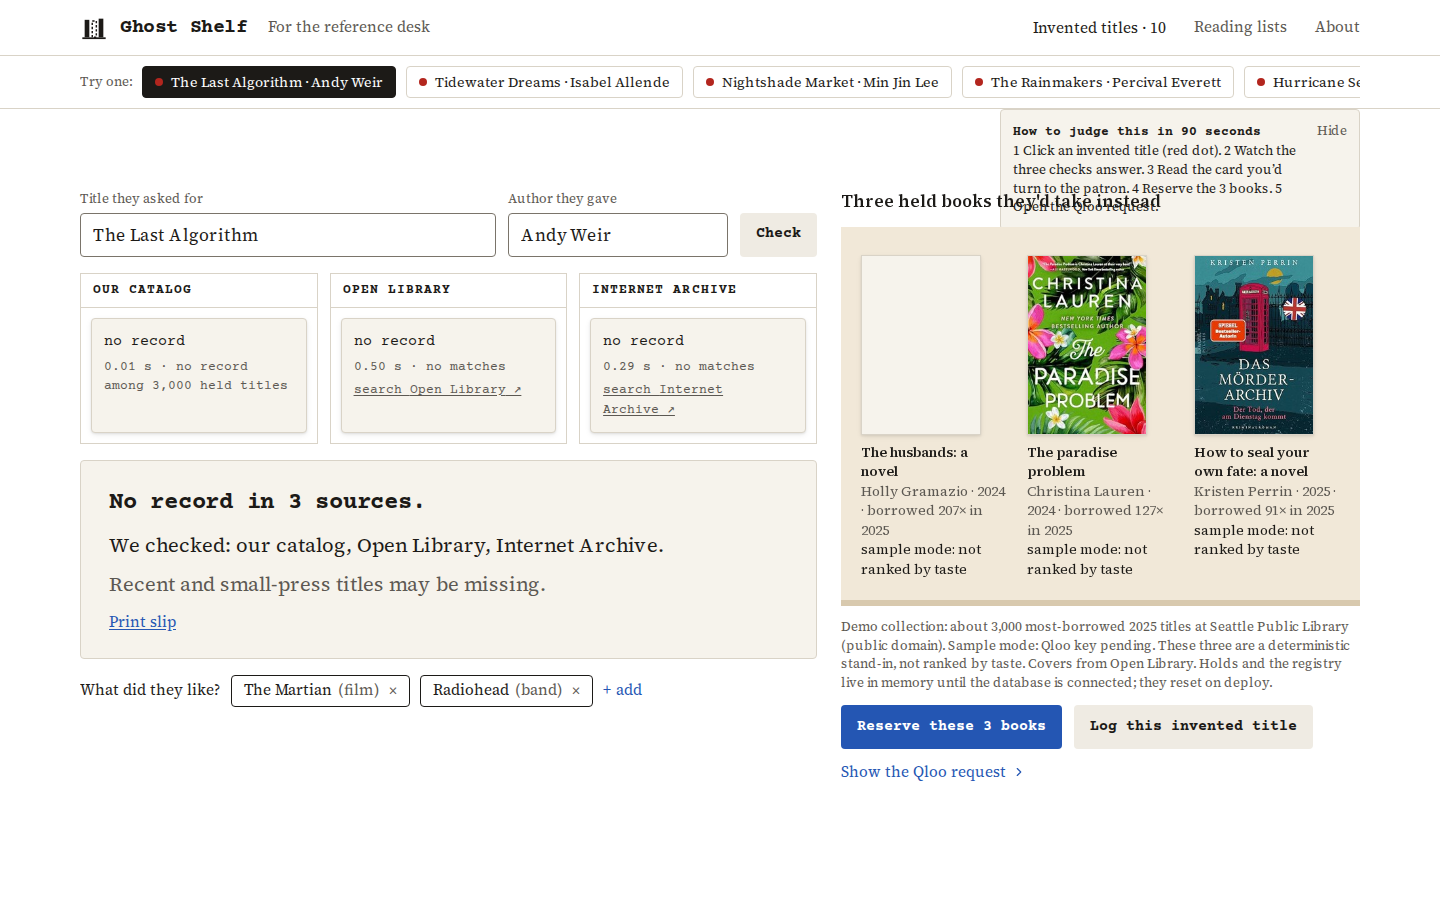
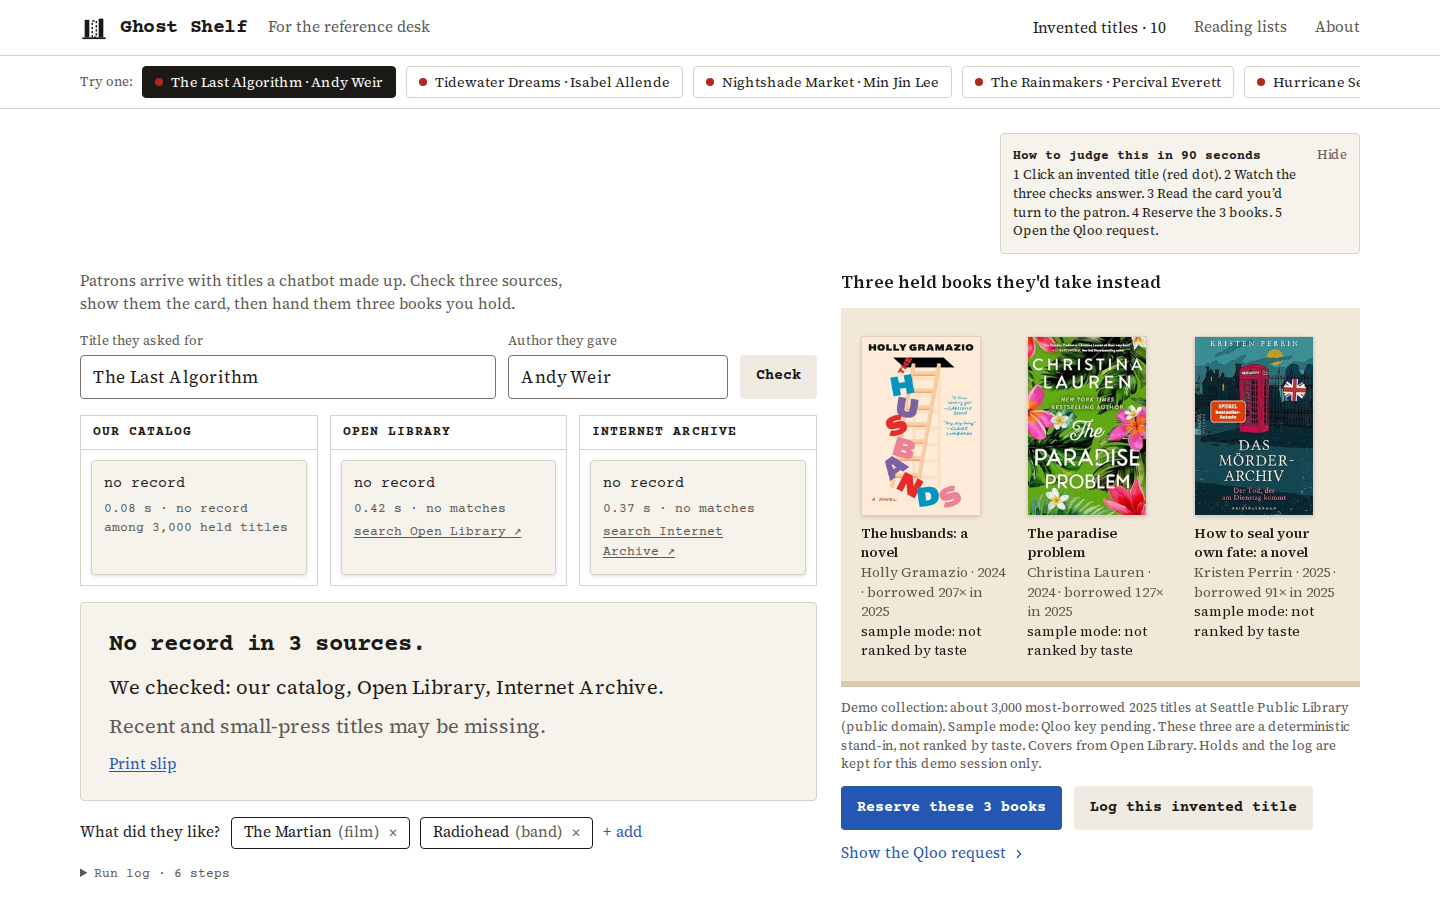
T13: QA passes on the live URL (demo x3 with reset, offline injection, axe, every state at three widths); T12 report; fresh README screenshot

diff --git a/.prod-build/reports/T12-fixes.md b/.prod-build/reports/T12-fixes.md
@@ -1,0 +1,41 @@
+# T12: what the gates found and what changed
+
+## Security checklist (self-run, 2026-10-19)
+- No env, key or storage-state files tracked; no key-shaped strings in tracked files.
+- Client bundle grep for `X-Api-Key` / `QLOO_API_KEY`: one hit, the literal `$QLOO_API_KEY` placeholder in the request panel's curl text. No key value anywhere; the live key is not set yet.
+- `process.env` read only in server modules (qloo/index.ts, check.ts, db/index.ts, googlebooks.ts); the page passes booleans.
+- Every route limited per IP (20/min writes, 30 checks, 120 reads, 240 covers), JSON parse guarded, sizes bounded. Limits are per instance (stated in code, README, ARCHITECTURE).
+- Security headers added: nosniff, X-Frame-Options DENY, Referrer-Policy strict-origin-when-cross-origin, Permissions-Policy; verified on the live URL.
+- Cover proxy fetches one fixed host with `^\d{1,12}$` ids; source URLs built with URLSearchParams on fixed hosts; Drizzle only, no string SQL from input.
+- Anti-slop grep over UI copy and README: no hits.
+
+## Fresh-context review (subagent, report in T12-review.md): disposition
+1. two-edition title-only lookup -> fixed (collection.ts groups by author; test).
+2. log/holds posted current fields, server never checked the run -> fixed (checkedRun sent; /api/log answers 409 when the run found the book; unknown run accepted because memory mode is per instance; test).
+3. late recover answer overwrites a newer run -> fixed (runSeq guard).
+4. archive any-creator counts as found -> fixed (needs ISBN or publisher without an author; test).
+5. production has no DATABASE_URL -> open: needs the account owner to accept Neon's terms; UI labels memory mode; README says the live demo runs memory-backed until then.
+6. holdings map never passed; build-map.ts missing; sequential chunks -> fixed (route passes the map when non-empty; scripts/build-map.ts written for T11; seeds and chunks run with bounded concurrency); README softened.
+7. unchecked card hard-coded Google Books -> fixed (built from the sources prop).
+8. disliked titles in avoid, substring matching -> fixed (whole-word regex; disliked excluded by ISBN only; test).
+9. ensureSeeded caches a rejection -> fixed.
+10. error frame forwards err.message -> fixed (fixed line; server-side log).
+11. ISBN-10 ending in X -> fixed (test).
+12. docs claims (in sequence, 20/min, retry on 5xx, error boundary) -> fixed in ARCHITECTURE.md and README; src/app/error.tsx added.
+13. mid-stream drop leaves "checking" -> fixed (sse.ts reports every drop; Desk 12 s watchdog; offline injection passes in qa-demo.mjs).
+14. test gaps -> partly covered (tests/review-fixes.test.ts: 1, 2, 4, 8, 11); PostgresRepo still untested against a database (no DATABASE_URL yet).
+
+## Cold read of three stills (subagent): disposition
+- Fabricated-looking latencies in the panel fixture -> removed (fixture calls carry no ms/status).
+- Judge card overlapping the shelf heading -> fixed (in flow).
+- Blank first cover -> fixed (spine shows until the cover loads; covers warmed after deploy; edition-level cover pass running).
+- German jacket under an English title -> edition-level cover pass (scripts/fetch-covers.mjs --editions) in progress; falls back to the work cover.
+- Dev-note caption -> reworded ("Holds and the log are kept for this demo session only.").
+- No premise line -> added above the title row (sm and up).
+- "Qloo key pending" everywhere -> true state until the key arrives (A-1); T11.
+
+## prod-ui A8 gates
+1. Cut pass: the preset dots' legend stays replaced by hidden prefixes; nothing on S1 outside §2.
+2. Anti-slop: grep clean; cold read by a fresh subagent recorded above (named the product, the user and the differentiator; flagged the sample-mode wording as the main risk).
+3. Accessibility: axe 0 violations at 1440 on /, /invented, /lists, /about; keyboard path exercised by qa-demo (Escape closes the panel, shortcuts work); 320 px with no sideways scroll on all 20 states.
+4. Judge and demo: foldcheck PASS at 1440x900 and 390x844 on the live URL; golden path 3 clicks; reset three times; replay; ?record=1 checked.
